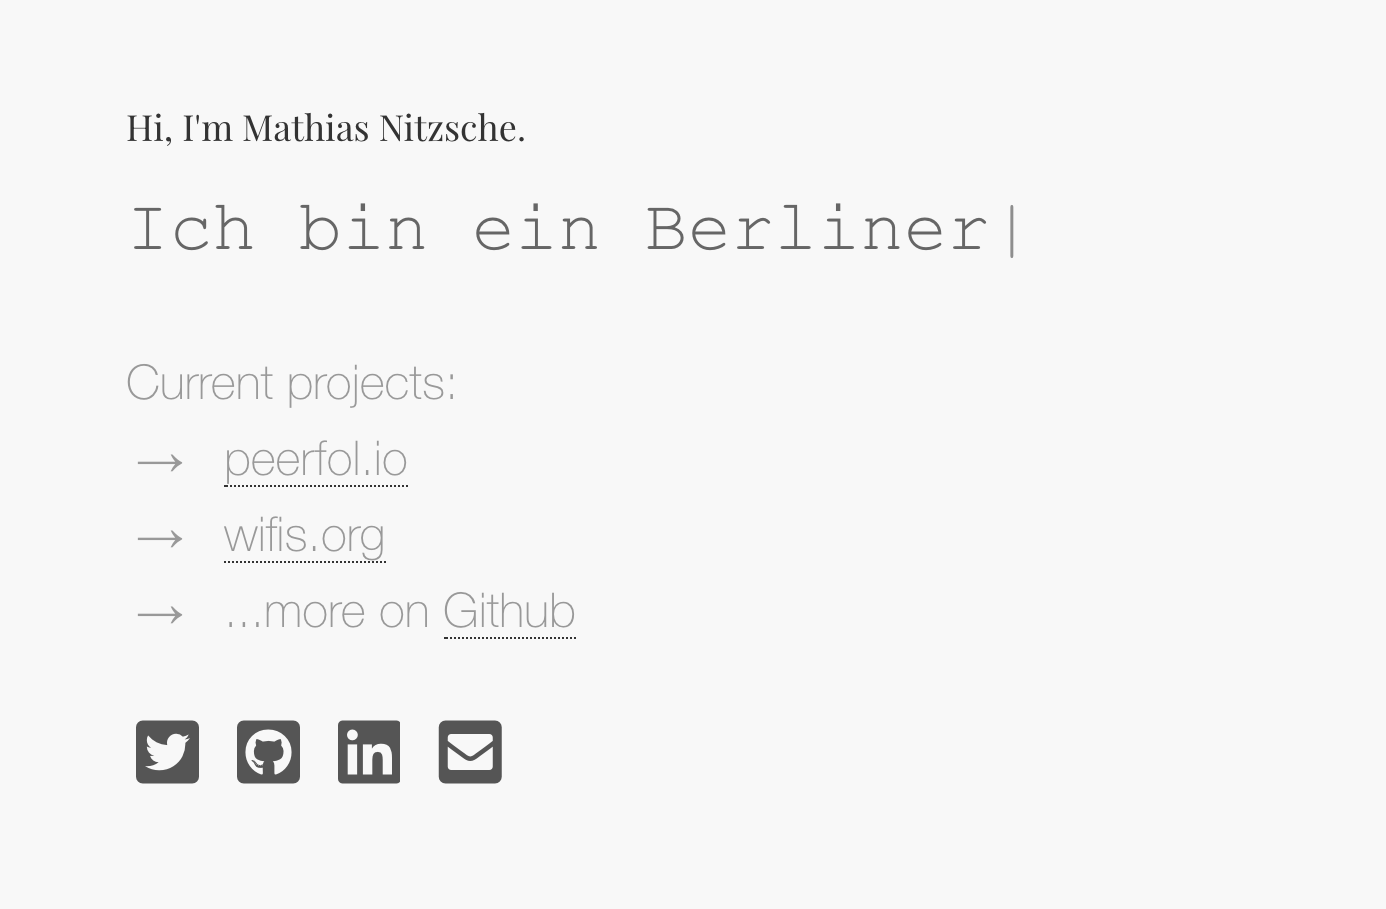
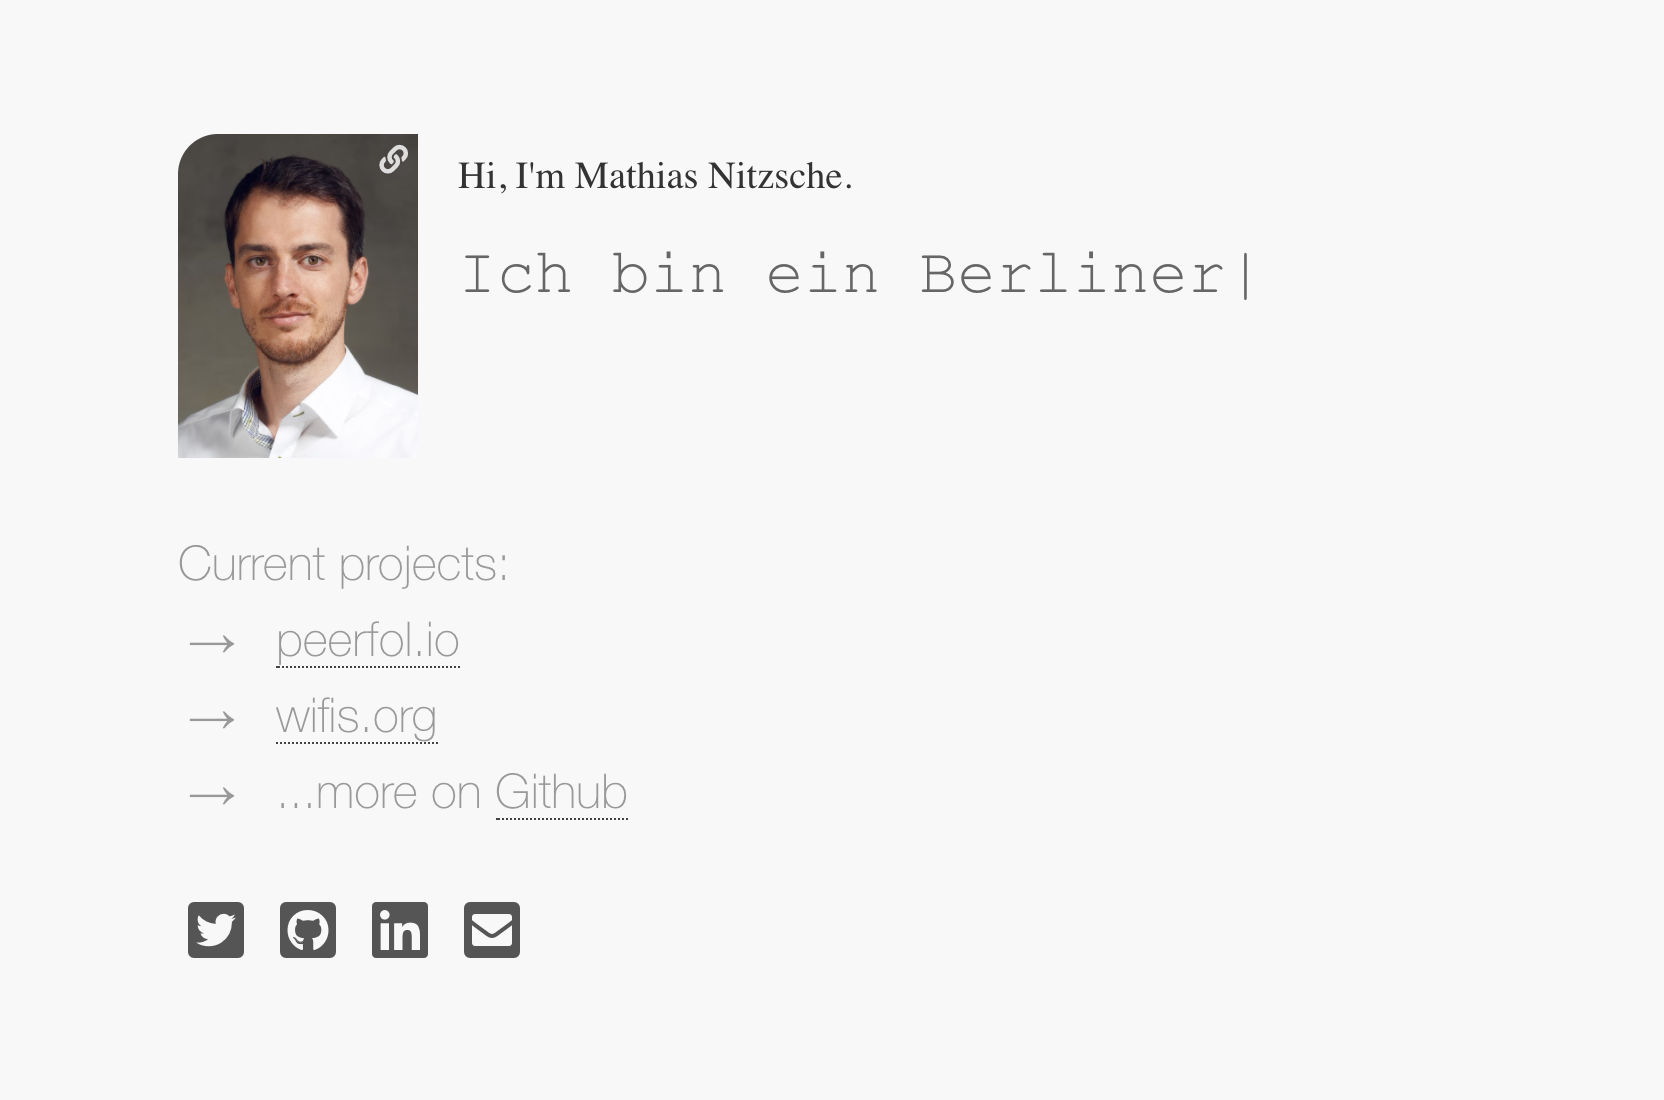
css fixes

diff --git a/style.css b/style.css
@@ -8,19 +8,22 @@
 body {
   background-color: #F8F8F8;
 }
+
+
 .container {
   font-family: Garamond, serif;
   width: 640px;
-  max-width: 80%;
   margin: 100px auto 100px auto;
   
 }
 @media (max-width: 800px) {
   .container {
-    margin: 40px auto 40px auto;
+    width:  auto;
+    margin: 30px;
     font-size: 13px;
   }
 }
+
 
 a {
   color: #999;
@@ -44,31 +47,39 @@ a:hover {
   background: url(me/2014-06.jpg);
   background-size: 120px;
   background-repeat: no-repeat;
-  border-radius: 20px;
+  border-top-left-radius: 20px;
   position: absolute;
   left: 0;
   top: 0;
   border: 0;
-  height: 180px;
-  width: 140px;
+  height: 160px;
+  width: 120px;
+  border: 1px solid #eee;
+}
+.foto:hover {
+  border-color: #ddd;
 }
 .foto::before {
   font-family: "Font Awesome 5 Free";
   font-weight: 900;
   content: "\f0c1";
-  color: #DDD;
+  color: #CCC;
   position: absolute;
   top: 5px;
-  right: 25px;
+  right: 5px;
   font-size: 0.9em;
 }
+.foto:hover::before {
+  color: #EEE; 
+}
+
 
 .name {
   font-family: Garamond, serif;
   line-height: 42px;
   margin-bottom: 10px;
   color: #333;
-  font-size: 1.2em;
+  font-size: 1.1em;
 }
 
 
@@ -151,7 +162,7 @@ a:hover {
   vertical-align:top;
   height: 180px;
 }
-.galery figcaption {
+.galery figure figcaption {
   position: absolute;
   bottom: 0px;
   left: 0px;
